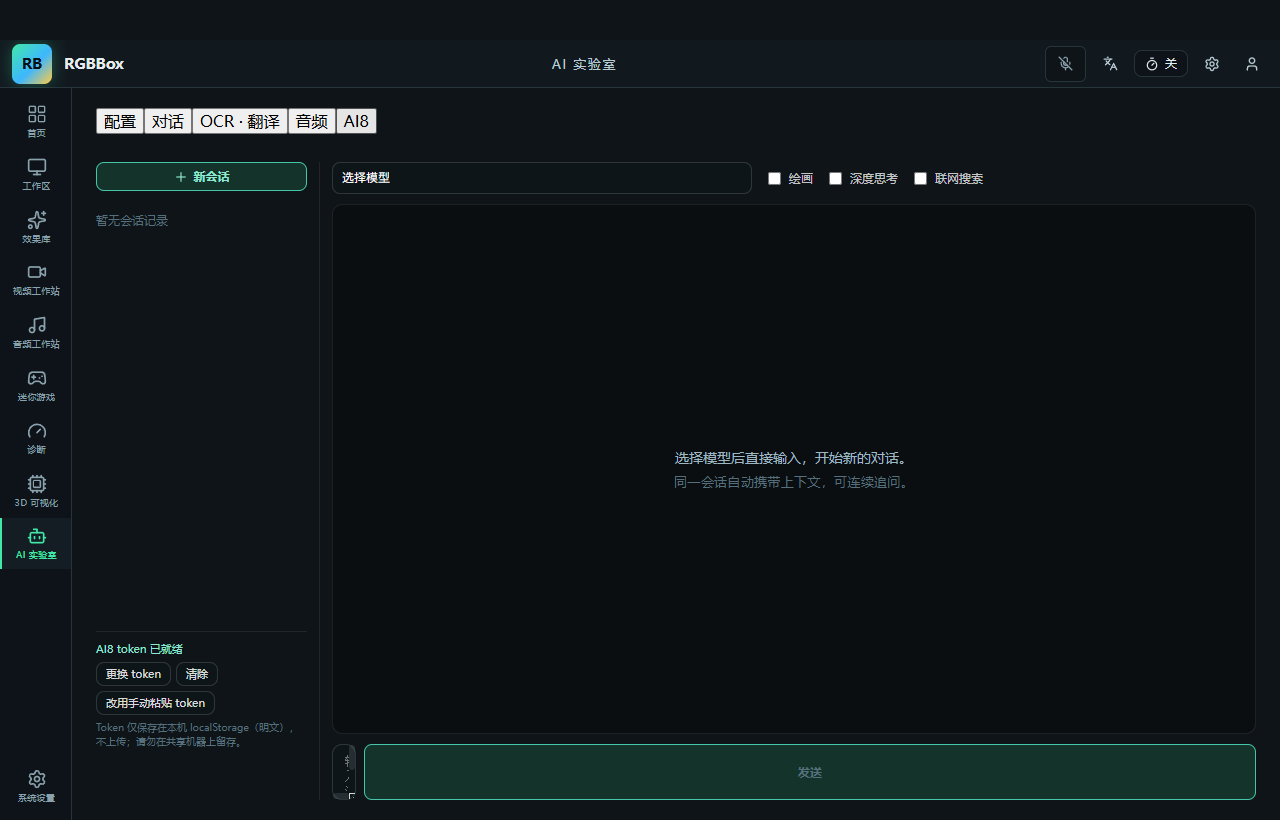
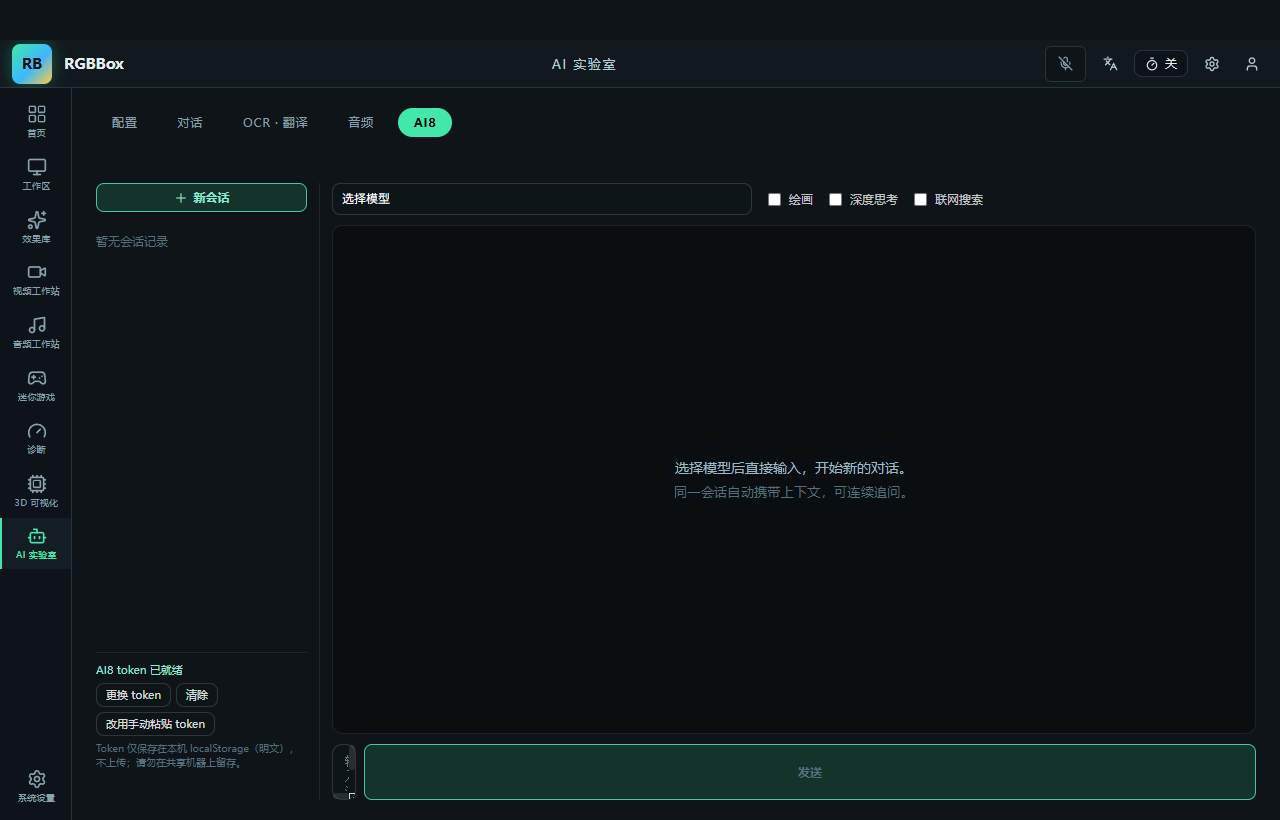
[PRD-0002] fix: R113 样式截断事故修复——恢复被误删的 AI Lab 标签栏等全套样式
根因：R113 追加新 ai8 样式时用 head -7162 截断 styles.css，把文件
尾部原有的 R89 AI Lab tabs（.ai-tabs/.ai-tab 胶囊样式）及 .ai-chat/
.ai-ocr/.ai-config 等在用规则一并删除，标签栏退化为浏览器原生按钮
（用户截图实证）。

修复：从 git 基线（8e77eb8 完整版）确定性重建 styles.css——剔除已
被 .ai8-* 取代的旧 R110/R111 ai8 块，追加新工作台样式块，其余原样
保留；构建期 css 语法错误一并消除（此前 head 截断恰好切在规则中间，
postcss Unexpected } 导致构建失败、out/ 一直是坏样式）。

验证：构建通过；typecheck 0 error；804 tests 全绿；真机复核
.ai-tab border-radius 999px/5 个标签/AI8 工作台 19 分组完好

diff --git a/src/renderer/src/styles.css b/src/renderer/src/styles.css
@@ -7160,6 +7160,314 @@ input[type='range'].video-player-volume {
   overflow-y: auto;
 }
 
+/* ══ R89: AI Lab tabs + profile row ═════════════════════════════════ */
+.ai-tabs {
+  display: flex;
+  gap: 8px;
+  margin-bottom: 18px;
+}
+.ai-tab {
+  background: transparent;
+  border: none;
+  border-radius: 999px;
+  color: var(--text-muted);
+  cursor: pointer;
+  font-size: 12px;
+  letter-spacing: 0.06em;
+  padding: 7px 16px;
+  text-transform: uppercase;
+  transition: background 150ms ease, color 150ms ease;
+}
+.ai-tab:hover { background: var(--bg-card); color: var(--text-primary); }
+.ai-tab.active {
+  background: var(--accent);
+  color: var(--accent-contrast);
+  font-weight: 600;
+}
+.ai-profile-row {
+  align-items: center;
+  display: flex;
+  gap: 8px;
+  margin-bottom: 14px;
+}
+.ai-profile-row select { max-width: 280px; }
+.ai-active-banner {
+  align-items: center;
+  color: var(--text-secondary);
+  display: flex;
+  font-size: 12.5px;
+  gap: 8px;
+  margin-bottom: 12px;
+}
+.ai-active-banner strong { color: var(--accent); }
+
+/* ══ R90 P1: audio test cards ══════════════════════════════════════ */
+.ai-audio {
+  display: grid;
+  gap: var(--gap-grid);
+  grid-template-columns: repeat(auto-fit, minmax(320px, 1fr));
+}
+.ai-audio-card {
+  background: var(--bg-card);
+  border: 1px solid var(--border-subtle);
+  border-radius: 12px;
+  display: flex;
+  flex-direction: column;
+  gap: 10px;
+  padding: 16px;
+}
+.ai-audio-card-head {
+  align-items: center;
+  display: flex;
+  gap: 10px;
+  justify-content: space-between;
+}
+.ai-audio-card-head strong { color: var(--text-primary); font-size: 14px; }
+.ai-audio-card-head button,
+.ai-audio-card .ai-prob button {
+  background: var(--bg-control);
+  border: 1px solid var(--border-control);
+  border-radius: 8px;
+  color: var(--text-primary);
+  cursor: pointer;
+  font-size: 12.5px;
+  padding: 6px 12px;
+  white-space: nowrap;
+}
+.ai-audio-card-head button:hover:not(:disabled) { border-color: var(--accent); color: var(--accent); }
+.ai-audio-card-head button:disabled { color: var(--text-faint); cursor: not-allowed; }
+.ai-lab-desc { color: var(--text-muted); font-size: 12.5px; margin: 0; }
+.ai-lab-status { color: var(--text-secondary); font-size: 12.5px; }
+.ai-prob {
+  align-items: center;
+  display: flex;
+  flex-direction: column;
+  gap: 6px;
+}
+.ai-prob > span { color: var(--text-primary); font-size: 13px; }
+.ai-prob-bar {
+  background: var(--bg-rail);
+  border: 1px solid var(--border-subtle);
+  border-radius: 999px;
+  height: 14px;
+  overflow: hidden;
+  width: 100%;
+}
+.ai-prob-bar span {
+  background: var(--accent);
+  border-radius: 999px;
+  display: block;
+  height: 100%;
+  transition: width 300ms ease;
+}
+.ai-ast { display: flex; flex-direction: column; gap: 6px; }
+.ai-ast-row {
+  color: var(--text-primary);
+  display: flex;
+  font-size: 13px;
+  justify-content: space-between;
+}
+.ai-ast-row span:last-child { color: var(--accent); }
+
+/* ══ R90.8: live detection + AI listen overlay ═════════════════════ */
+.ai-source-row { display: flex; gap: 14px; }
+.ai-source-row label {
+  align-items: center;
+  color: var(--text-secondary);
+  cursor: pointer;
+  display: flex;
+  font-size: 13px;
+  gap: 6px;
+}
+.ai-lab-status { color: var(--accent); font-size: 12.5px; }
+
+.ai-listen {
+  /* R90.8 review: bottom-right keeps clear of the player's native top toolbar
+     and bottom control bar — the previous top-right anchor covered buttons */
+  position: absolute;
+  right: 18px;
+  bottom: 18px;
+  z-index: 40;
+  display: flex;
+  flex-direction: column;
+  align-items: flex-end;
+  gap: 8px;
+}
+.ai-listen-toggle {
+  align-items: center;
+  background: var(--bg-card);
+  border: 1px solid var(--border-subtle);
+  border-radius: 999px;
+  color: var(--text-secondary);
+  cursor: pointer;
+  display: flex;
+  font-size: 12px;
+  gap: 6px;
+  padding: 6px 12px;
+}
+.ai-listen-toggle:hover { border-color: var(--accent); color: var(--accent); }
+.ai-listen-toggle.active {
+  background: var(--accent);
+  border-color: var(--accent);
+  color: var(--accent-contrast);
+  font-weight: 600;
+}
+.ai-listen-panel {
+  background: var(--bg-toolbar);
+  border: 1px solid var(--border-subtle);
+  border-radius: 10px;
+  box-shadow: 0 8px 24px rgba(0, 0, 0, 0.45);
+  display: flex;
+  flex-direction: column;
+  gap: 6px;
+  min-width: 220px;
+  padding: 10px 12px;
+}
+.ai-listen-row {
+  color: var(--text-secondary);
+  display: flex;
+  font-size: 12.5px;
+  justify-content: space-between;
+  gap: 12px;
+}
+.ai-listen-row strong { color: var(--text-faint); font-variant-numeric: tabular-nums; }
+.ai-listen-row strong.on { color: var(--accent); }
+
+/* R90.8: video studio wrapper anchoring the AI listen overlay */
+.video-view-anchor {
+  display: flex;
+  flex: 1;
+  flex-direction: column;
+  min-height: 0;
+  position: relative;
+}
+
+/* R90.8 review: model-download prompt inside the listen panel */
+.ai-listen-models { display: flex; flex-direction: column; gap: 8px; }
+.ai-listen-models button {
+  background: var(--bg-control);
+  border: 1px solid var(--border-control);
+  border-radius: 8px;
+  color: var(--text-primary);
+  cursor: pointer;
+  font-size: 12.5px;
+  padding: 7px 12px;
+}
+.ai-listen-models button:hover { border-color: var(--accent); color: var(--accent); }
+.ai-listen-panel { max-width: 320px; }
+
+/* R90.8 review: per-card model badge (was a standalone card) */
+.ai-model-badge {
+  align-items: center;
+  display: flex;
+  font-size: 12px;
+  gap: 6px;
+}
+.ai-model-badge button {
+  background: var(--bg-control);
+  border: 1px solid var(--border-control);
+  border-radius: 8px;
+  color: var(--text-primary);
+  cursor: pointer;
+  font-size: 11.5px;
+  padding: 4px 10px;
+  white-space: nowrap;
+}
+.ai-model-badge button:hover:not(:disabled) { border-color: var(--accent); color: var(--accent); }
+.ai-model-dot {
+  border-radius: 50%;
+  flex-shrink: 0;
+  height: 9px;
+  width: 9px;
+}
+.ai-model-dot[data-state='ready'] { background: var(--accent); box-shadow: 0 0 6px rgba(66, 232, 169, 0.5); }
+.ai-model-dot[data-state='downloading'] { background: #3db7ff; }
+.ai-model-dot[data-state='error'] { background: #e0a040; }
+.ai-model-dot[data-state='idle'],
+.ai-model-dot[data-state='checking'] { background: var(--text-faint); }
+.ai-model-name { color: var(--text-primary); flex: 1; }
+.ai-model-state { color: var(--accent); font-size: 12.5px; }
+.ai-model-refresh {
+  background: transparent;
+  border: 1px solid var(--border-subtle);
+  border-radius: 8px;
+  color: var(--text-muted);
+  cursor: pointer;
+  font-size: 11.5px;
+  padding: 4px 10px;
+}
+.ai-model-refresh:hover { color: var(--text-primary); border-color: var(--border-hover); }
+
+/* R90.8 review: intro + result reading hints */
+.ai-lab-intro {
+  color: var(--text-muted);
+  font-size: 12.5px;
+  line-height: 1.6;
+  margin: 0;
+}
+.ai-lab-reading {
+  border-top: 1px dashed var(--border-subtle);
+  color: var(--text-faint);
+  font-size: 11.5px;
+  line-height: 1.5;
+  margin: 8px 0 0;
+  padding-top: 8px;
+}
+
+/* R90.8 review: input level gauge + AST state line */
+.ai-level { display: flex; flex-direction: column; gap: 4px; }
+.ai-level .ai-prob-bar span { background: #3db7ff; }
+.ai-listen-level { flex: 1; max-width: 90px; }
+
+/* ══ R90.9: single-card pipeline view ══════════════════════════════ */
+.ai-pipeline-card { gap: 14px; }
+.ai-model-badges { display: flex; gap: 12px; }
+.ai-stages { display: flex; flex-wrap: wrap; gap: 8px 18px; }
+.ai-stage { align-items: center; color: var(--text-secondary); display: flex; font-size: 12.5px; gap: 7px; }
+.ai-stage-lamp {
+  border-radius: 50%;
+  border: 1px solid var(--border-subtle);
+  flex-shrink: 0;
+  height: 9px;
+  width: 9px;
+}
+.ai-stage[data-ok='true'] .ai-stage-lamp { background: var(--accent); border-color: var(--accent); box-shadow: 0 0 6px rgba(66, 232, 169, 0.5); }
+.ai-stage[data-ok='false'] .ai-stage-lamp { background: #e0a040; border-color: #e0a040; }
+.ai-stage-detail { color: var(--text-faint); font-size: 11.5px; }
+.ai-selftest { align-items: center; border-top: 1px dashed var(--border-subtle); display: flex; flex-wrap: wrap; gap: 10px; padding-top: 10px; }
+.ai-selftest button {
+  background: var(--bg-control);
+  border: 1px solid var(--border-control);
+  border-radius: 8px;
+  color: var(--text-primary);
+  cursor: pointer;
+  font-size: 12.5px;
+  padding: 7px 14px;
+}
+.ai-selftest button:hover:not(:disabled) { border-color: var(--accent); color: var(--accent); }
+.ai-selftest button:disabled { color: var(--text-faint); cursor: not-allowed; }
+.ai-selftest-results { display: flex; flex-direction: column; gap: 4px; width: 100%; }
+.ai-selftest-row { color: var(--text-secondary); display: flex; font-size: 12.5px; gap: 8px; }
+.ai-selftest-row[data-pass='false'] { color: #e0a040; }
+.ai-selftest-row[data-pass='true'] :first-child { color: var(--accent); }
+
+/* R90.9: two-card audio layout — intro/reading span BOTH columns (auto-flow
+   previously scattered the four children across the grid: intro top-left,
+   pipeline squeezed into the narrow right column with a wrapped vertical
+   title, models stranded bottom-left — the "乱七八糟" screenshot). */
+.ai-audio {
+  align-items: start;
+  grid-template-columns: 1fr;
+}
+.ai-lab-intro,
+.ai-lab-reading { grid-column: 1 / -1; }
+@media (min-width: 900px) {
+  .ai-audio { grid-template-columns: minmax(0, 1.6fr) minmax(300px, 1fr); }
+  .ai-pipeline-card { grid-column: 1; }
+  .ai-audio-card:not(.ai-pipeline-card) { grid-column: 2; }
+}
+.ai-audio-card { align-content: start; }
+
 /* ── R110/R113: AI8 workbench ───────────────────────────────────────────── */
 
 .ai8 {
